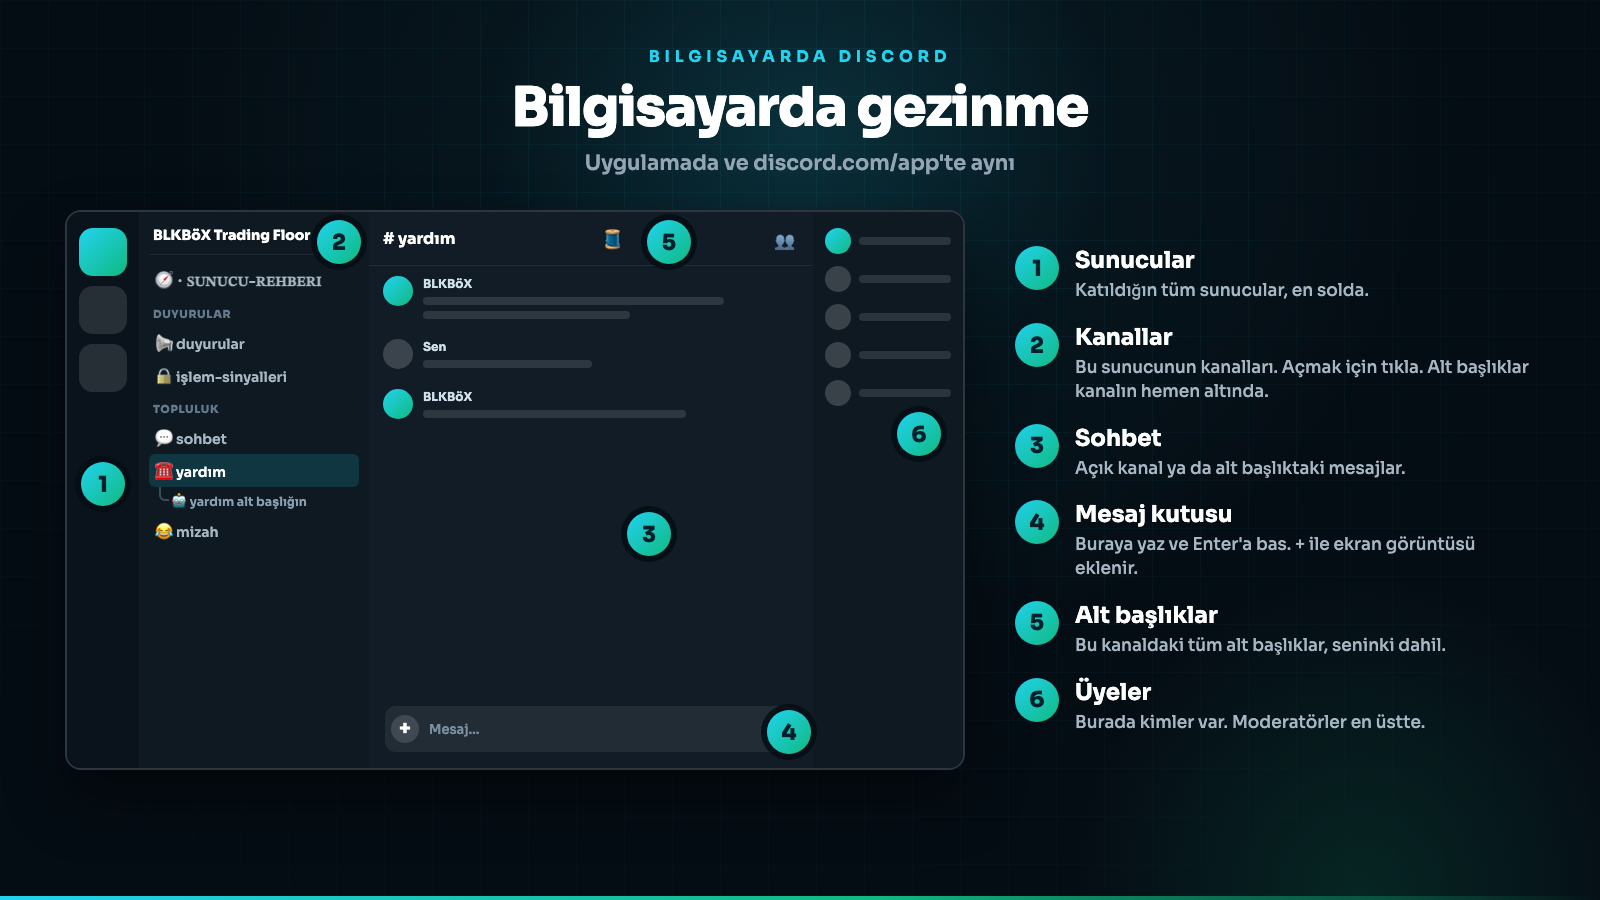
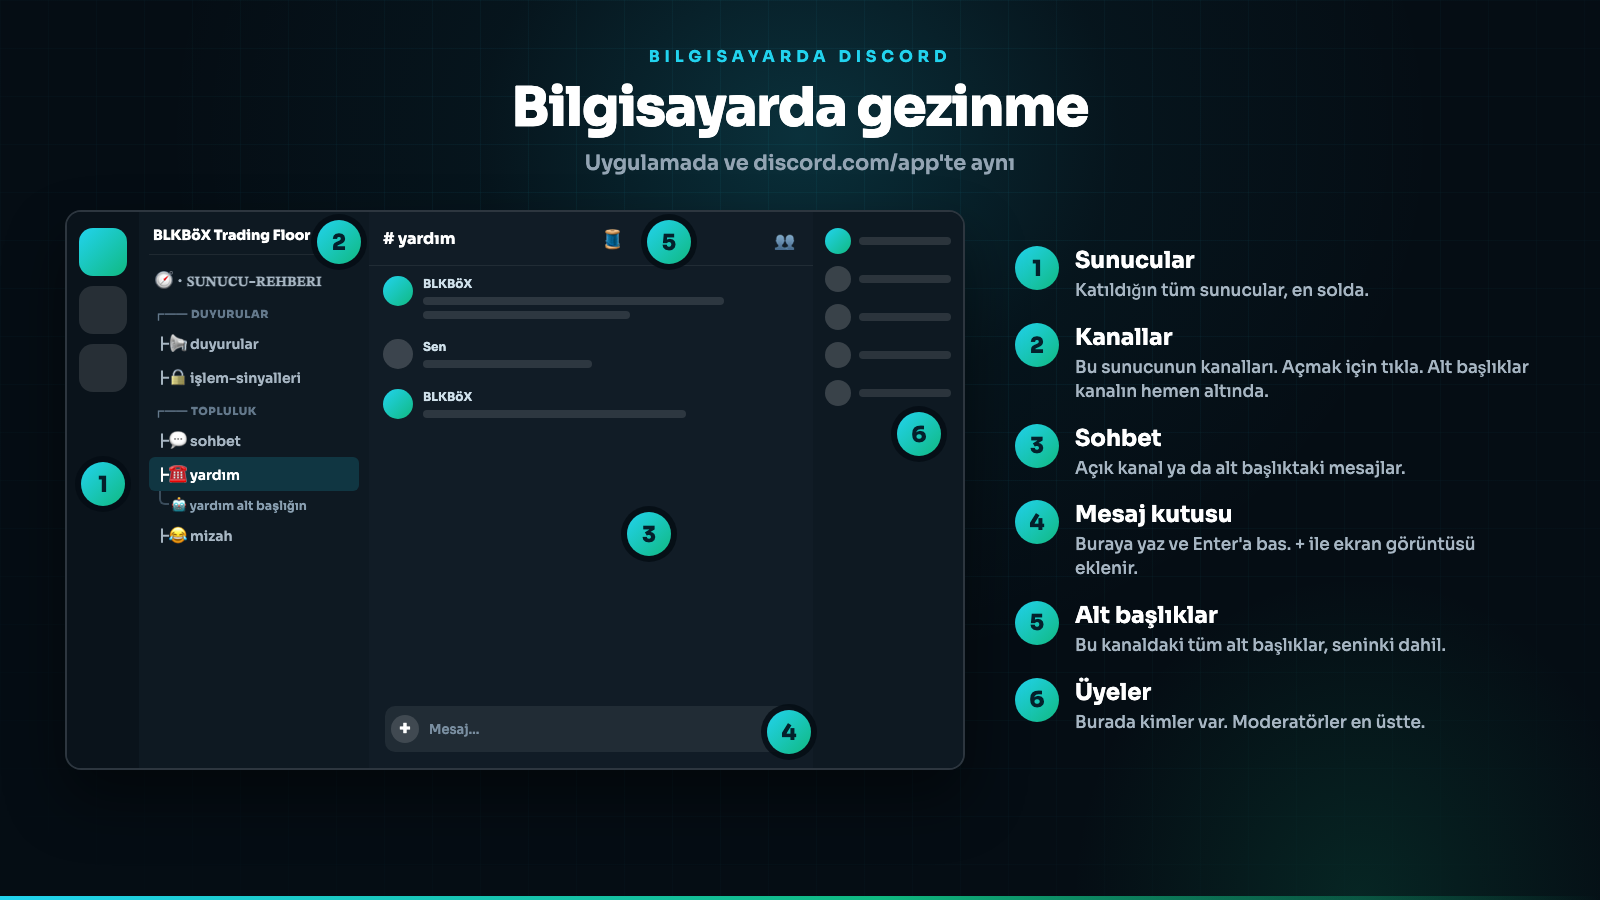
Folder-style layout: ┏━━ categories with ┣ branches on their channels
Categories lose their emoji for a ┏━━ folder line and every channel in them
gets a ┣ branch, so the list reads as folders and sub-folders. The channels
step renames categories and channels in place (messages, mirror links and
jump links survive). The AlphanumetriX state icon sits behind the branch,
and the flagship updater keeps the branch when it changes the icon. The
help-desk guide cards show the same style.

Changed region(s): [[0.0938, 0.3422, 0.2188, 0.6222]]

diff --git a/bot/scripts/onboarding.ts b/bot/scripts/onboarding.ts
@@ -107,7 +107,8 @@ const LAYOUT: { cat: "ann" | "com" | "ref"; top?: true; kind: Kind; tier: Tier; 
   { cat: "ref", kind: "forums", tier: "member", type: "forum" },
 ];
 
-const CATS: Record<Lang, Record<"ann" | "com" | "ref", string>> = {
+/** The categories as they were named with an emoji; renamed in place to the folder style below. */
+const CATS_EMOJI: Record<Lang, Record<"ann" | "com" | "ref", string>> = {
   en: { ann: "📢 ANNOUNCEMENTS", com: "💬 COMMUNITY", ref: "📚 REFERENCE" },
   zh: { ann: "📢 公告", com: "💬 社区", ref: "📚 参考资料" },
   ko: { ann: "📢 공지", com: "💬 커뮤니티", ref: "📚 자료실" },
@@ -119,6 +120,17 @@ const CATS: Record<Lang, Record<"ann" | "com" | "ref", string>> = {
   ru: { ann: "📢 ОБЪЯВЛЕНИЯ", com: "💬 СООБЩЕСТВО", ref: "📚 СПРАВКА" },
   ja: { ann: "📢 お知らせ", com: "💬 コミュニティ", ref: "📚 資料" },
 };
+
+/**
+ * Folder style: a category reads as the parent folder (┏━━ ANNOUNCEMENTS) and
+ * its channels as branches under it (┣📢・announcements). Every channel gets the
+ * same branch: members see different channels, so a closing ┗ would land mid-list.
+ */
+const FOLDER = "┏━━ ";
+const BRANCH = "┣";
+const CATS = Object.fromEntries(
+  LANGS.map((lang) => [lang, Object.fromEntries(Object.entries(CATS_EMOJI[lang]).map(([k, v]) => [k, FOLDER + v.replace(/^\S+\s+/u, "")]))]),
+) as Record<Lang, Record<"ann" | "com" | "ref", string>>;
 
 const NAMES: Record<Lang, Record<Kind, string>> = {
   en: { announcements: "📢・announcements", flagship: "🟢🟢・alphanumetrix", investor: "💼・investor-signals", daytrade: "🤖・bot-alerts", "lock-flagship": "", "lock-investor": "", "lock-daytrade": "", "lock-crypto": "", "lock-stocks": "", "lock-commodities": "", teaser: "🔒・trade-signals", signals: "⚡・trade-alerts", verify: "✅・verify", btcgate: "🔒・bitcoin", tradegate: "🔒・trading-group", general: "💬・general", trader: "📈・trader-chat", bitcoin: "🟠・bitcoin", crypto: "🪙・crypto", stocks: "📊・stocks", commodities: "🛢・commodities", memes: "😂・memes", help: "☎・help-desk", start: "🧭・server-guide", guides: "📕・setup-guides", strategies: "📗・trading-strategies", forums: "🧵・forums" },
@@ -187,10 +199,13 @@ const PICKER: Spec = { name: "🌐・choose-language", parent: null, lang: "all"
 const SPECS: Spec[] = [PICKER, { name: "verify-preview", parent: null, lang: "all", tier: "ops" }];
 for (const lang of LANGS) {
   for (const l of LAYOUT) {
-    const name = NAMES[lang][l.kind];
+    const plain = NAMES[lang][l.kind];
+    const name = l.top ? plain : BRANCH + plain;
     const legacy = lang === "en"
-      ? [{ name, parent: EN_OLD[l.kind] ?? null }, ...(l.kind === "start" ? [{ name: "📍・start-here", parent: null }] : [])]
-      : [{ name, parent: OLD_CATS[lang as Exclude<Lang, "en">] }];
+      ? [{ name: plain, parent: EN_OLD[l.kind] ?? null }, ...(l.kind === "start" ? [{ name: "📍・start-here", parent: null }] : [])]
+      : [{ name: plain, parent: OLD_CATS[lang as Exclude<Lang, "en">] }];
+    // Before the folder style the channel carried no branch.
+    if (!l.top) legacy.push({ name: plain, parent: CATS[lang][l.cat] }, { name: plain, parent: CATS_EMOJI[lang][l.cat] });
     if (l.kind === "start") legacy.push({ name: START_OLD[lang], parent: CATS[lang][l.cat] }, { name: `═🧭・${bare(START_OLD[lang])}・🧭═`, parent: null }, { name: `【${bare(START_OLD[lang])}】`, parent: null });
     if (l.kind === "tradegate") legacy.push({ name: NAMES[lang].btcgate, parent: CATS[lang][l.cat] });
     // Memes wore 🐸 before 😂, which reads as "funny" in every language.
@@ -204,11 +219,9 @@ for (const lang of LANGS) {
   }
 }
 
-const CATEGORY_SPECS: { name: string; lang: Lang; tier: Tier }[] = LANGS.flatMap((lang) => [
-  { name: CATS[lang].ann, lang, tier: "free" as Tier },
-  { name: CATS[lang].com, lang, tier: "free" as Tier },
-  { name: CATS[lang].ref, lang, tier: "free" as Tier },
-]);
+const CATEGORY_SPECS: { name: string; old: string; lang: Lang; tier: Tier }[] = LANGS.flatMap((lang) =>
+  (["ann", "com", "ref"] as const).map((k) => ({ name: CATS[lang][k], old: CATS_EMOJI[lang][k], lang, tier: "free" as Tier })),
+);
 
 /**
  * Roles whose ViewChannel the new tiers replace on the channels above. Their
@@ -235,8 +248,8 @@ interface Ctx {
 const log = (s: string) => console.log(s);
 
 /** Channel names compare equal across the flagship's state emoji, which /flagship changes. */
-const STATE = /^[🟢🟡🔴]{1,2}・/u;
-const sameName = (a: string, b: string) => a === b || (STATE.test(a) && STATE.test(b) && a.replace(STATE, "") === b.replace(STATE, ""));
+const STATE = /^(┣?)[🟢🟡🔴]{1,2}・/u;
+const sameName = (a: string, b: string) => a === b || (STATE.test(a) && STATE.test(b) && a.replace(STATE, "$1") === b.replace(STATE, "$1"));
 
 function findChannel(guild: Guild, spec: { name: string; parent: string | null }) {
   const parentId = spec.parent ? guild.channels.cache.find((c) => c.type === ChannelType.GuildCategory && c.name === spec.parent)?.id ?? "missing" : null;
@@ -317,6 +330,12 @@ async function stepChannels(ctx: Ctx) {
   const me = guild.members.me ?? (await guild.members.fetchMe());
   for (const c of CATEGORY_SPECS) {
     if (findCategory(guild, c.name)) continue;
+    const old = findCategory(guild, c.old);
+    if (old) {
+      log(`  rename category ${c.old} → ${c.name}`);
+      if (ctx.apply) await old.setName(c.name, "onboarding: folder style");
+      continue;
+    }
     log(`  create category ${c.name}`);
     if (ctx.apply) await guild.channels.create({ name: c.name, type: ChannelType.GuildCategory, permissionOverwrites: [{ id: guild.roles.everyone.id, deny: [P.ViewChannel] }], reason: "onboarding" });
   }
@@ -324,12 +343,15 @@ async function stepChannels(ctx: Ctx) {
 
   for (const s of SPECS) {
     if (s.tier === "ops") continue;
-    const parent = s.parent ? findCategory(guild, s.parent) : undefined;
+    // A dry run sees categories under their old names, before the rename above.
+    const parent = s.parent ? findCategory(guild, s.parent) ?? findCategory(guild, CATEGORY_SPECS.find((c) => c.name === s.parent)?.old ?? "") : undefined;
     const existing = locate(guild, s);
     if (existing) {
       if (!sameName(existing.name, s.name) || (existing.name !== s.name && !STATE.test(s.name))) {
-        log(`  rename #${existing.name} → #${s.name}`);
-        if (ctx.apply) await existing.setName(s.name, "onboarding: one layout per language");
+        // A state channel keeps the icon it shows now; only the rest of the name follows the layout.
+        const target = STATE.test(s.name) && STATE.test(existing.name) ? s.name.replace(STATE, `$1${existing.name.match(STATE)![0].replace(/^┣/, "")}`) : s.name;
+        log(`  rename #${existing.name} → #${target}`);
+        if (ctx.apply) await existing.setName(target, "onboarding: one layout per language");
       }
       if ((existing.parentId ?? null) !== (parent?.id ?? null)) {
         log(`  move #${existing.name} → ${s.parent ?? "top"}`);

diff --git a/bot/src/flagship.ts b/bot/src/flagship.ts
@@ -22,8 +22,8 @@ export type FlagshipState = "strong-bull" | "lean-bull" | "lean-bear" | "strong-
 export const ICONS: Record<FlagshipState, string> = { "strong-bull": "🟢🟢", "lean-bull": "🟡🟢", "lean-bear": "🔴🟡", "strong-bear": "🔴🔴" };
 export const LABELS: Record<FlagshipState, string> = { "strong-bull": "Strong Bull Trend", "lean-bull": "Leaning Bullish", "lean-bear": "Leaning Bearish", "strong-bear": "Strong Bear Trend" };
 const BY_COUNT: FlagshipState[] = ["strong-bear", "lean-bear", "lean-bull", "strong-bull"];
-/** Any state prefix, old single-emoji ones included, so channels migrate on the first update. */
-export const STATE_PREFIX = /^[🟢🟡🔴]{1,2}・/u;
+/** Any state prefix, old single-emoji ones included, so channels migrate on the first update; behind the ┣ branch of the folder-style layout when there is one. */
+export const STATE_PREFIX = /^(┣?)[🟢🟡🔴]{1,2}・/u;
 
 interface Event { signal: string; direction: string; fired_at: string }
 
@@ -48,7 +48,7 @@ export async function applyFlagship(guild: Guild, state: FlagshipState, reason: 
   let changed = 0;
   const failed: string[] = [];
   for (const c of channels.values()) {
-    const name = c.name.replace(STATE_PREFIX, `${icon}・`);
+    const name = c.name.replace(STATE_PREFIX, `$1${icon}・`);
     if (name === c.name) continue;
     try {
       await c.setName(name, reason);
